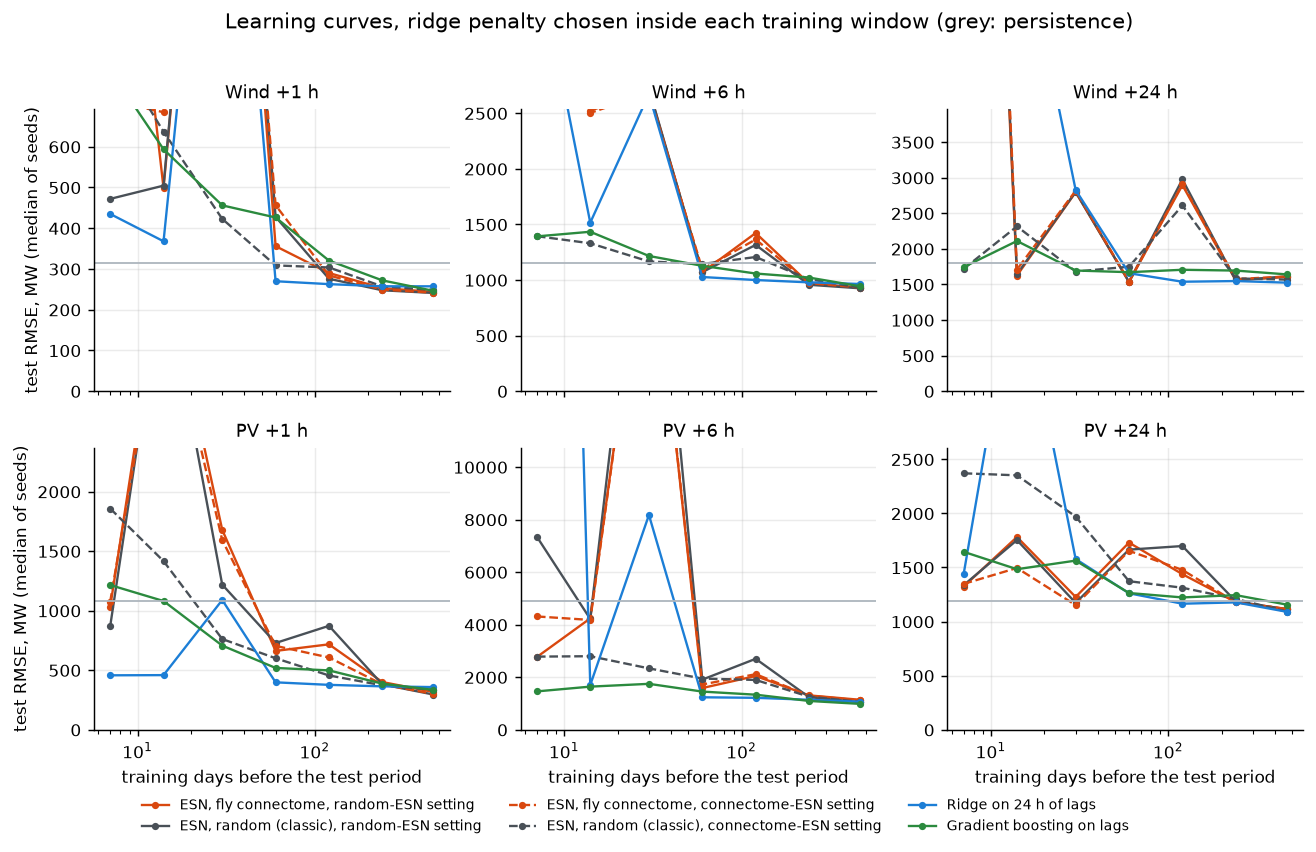
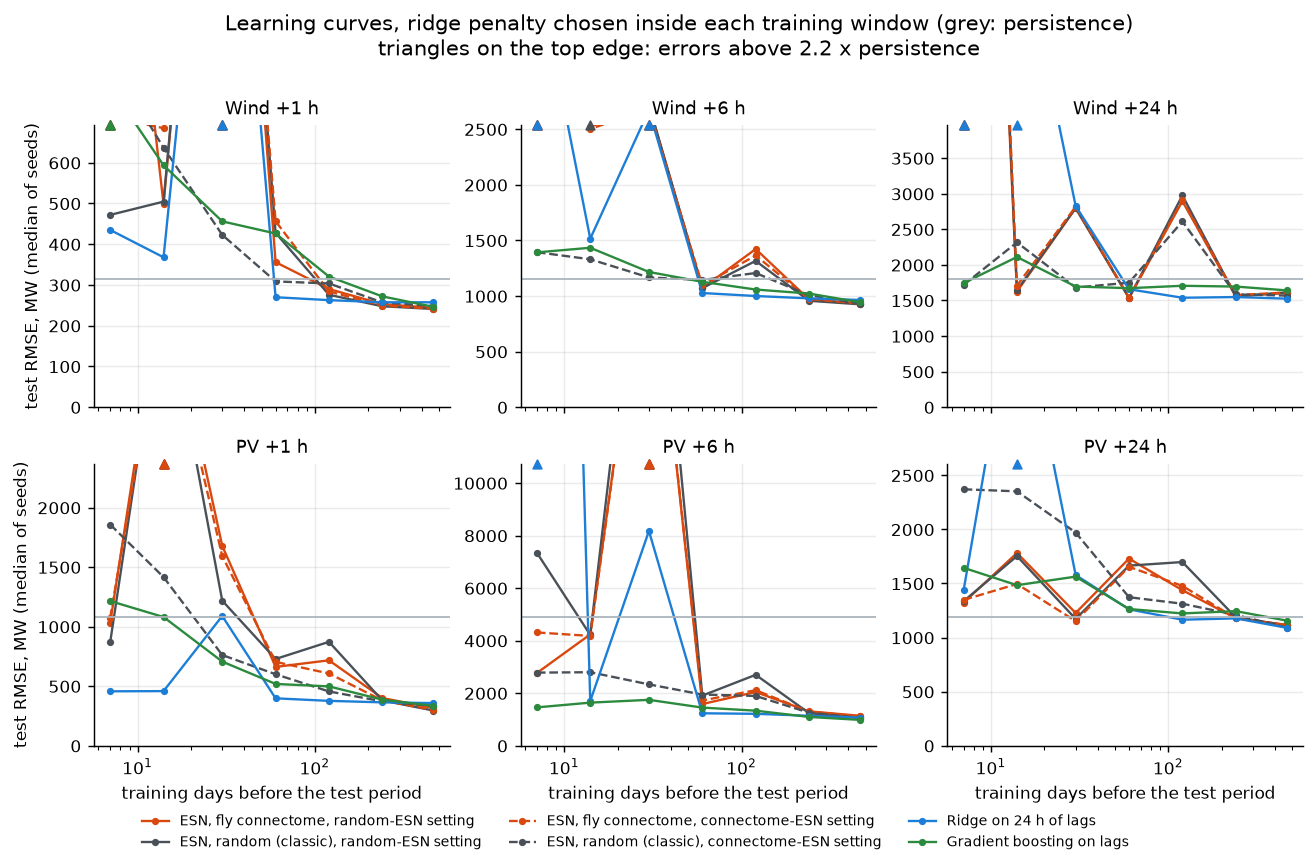
README charts: reservoir colour scales and legend, clipped learning curves marked
reservoir.png: equal matrix panels, a colour scale under each (per-panel, as before), the neuron legend
below the network. learning_curves.png: errors above the 2.2 x persistence axis limit are marked on the
top edge instead of leaving the axis without a trace. Redrawn from connectome/ and results/.

diff --git a/src/fly_forecast/figures.py b/src/fly_forecast/figures.py
@@ -38,7 +38,7 @@ def _save(fig, path: Path) -> Path:
 
 def fig_reservoir(views: dict, path: Path) -> Path:
     fig = plt.figure(figsize=(12.5, 4.2))
-    gs = fig.add_gridspec(1, 4, width_ratios=[1.15, 1, 1, 1.05])
+    gs = fig.add_gridspec(1, 4, width_ratios=[1.15, 1, 1, 1])
     ax = fig.add_subplot(gs[0])
     pos, nodes, edges = views["pos"], views["nodes"], views["edges"]
     strong = edges.reindex(edges["weight"].abs().sort_values(ascending=False).index[:2500])
@@ -51,16 +51,22 @@ def fig_reservoir(views: dict, path: Path) -> Path:
             continue
         ax.scatter(pos[m, 0], pos[m, 1], s=size[m], c=colour, label=f"{nt} ({m.sum()})", zorder=2, lw=0)
     ax.set_title(f"{len(nodes)} most connected FlyWire neurons", fontsize=10)
-    ax.legend(loc="lower left", fontsize=8, markerscale=1.5)
+    ax.legend(loc="upper center", bbox_to_anchor=(0.5, -0.02), ncol=2, fontsize=8, markerscale=1.5, frameon=False)
     (x0, x1), (y0, y1) = view_limits(pos)
     ax.set_xlim(x0, x1), ax.set_ylim(y0, y1)
     ax.set_xticks([]), ax.set_yticks([]), ax.grid(False)
     for k, (v, title) in enumerate([("connectome", "connectome |W|"), ("degree_preserving", "degree-preserving"),
                                     ("random", "random (same density)")]):
         ax = fig.add_subplot(gs[k + 1])
-        ax.imshow(block_image(views["mats"][v], views["order"]), cmap="magma_r", interpolation="nearest")
+        im = ax.imshow(block_image(views["mats"][v], views["order"]), cmap="magma_r", interpolation="nearest")
         ax.set_title(title + "\n(rows: post, columns: pre)", fontsize=9.5)
         ax.set_xticks([]), ax.set_yticks([]), ax.grid(False)
+        # each panel keeps its own colour scale (the random matrix reaches about twice the connectome's values)
+        cb = fig.colorbar(im, ax=ax, orientation="horizontal", fraction=0.05, pad=0.03)
+        cb.ax.tick_params(labelsize=7.5)
+        cb.outline.set_visible(False)
+        if k == 0:
+            cb.set_label("log10(1 + summed |W| / smallest block)", fontsize=8)
     fig.suptitle("Reservoir matrices, neurons ordered by main neuropil", y=1.02)
     return _save(fig, path)
 
@@ -182,24 +188,28 @@ def fig_curves(res: dict, path: Path) -> Path:
              ("esn_random", "connectome", "--"), ("ridge_lags", "", "-"), ("gbm_lags", "", "-")]
     fig, axes = plt.subplots(2, 3, figsize=(12, 6.2), sharex=True)
     for ax, col in zip(axes.ravel(), COLS):
+        ref = res["base"].query("model == 'persistence'")
+        s, h = col.split("_h")
+        r0 = ref[(ref["target"] == s) & (ref["h"] == int(h))]["rmse"].iloc[0]
+        top = 2.2 * r0
         for m, setting, ls in lines:
             t = c[(c["model"] == m) & (c["column"] == col) & (c["setting"] == setting)]
             t = t.assign(x=t["days"].map(xs_map)).sort_values("x")
             lab = LABEL[m] + (f", {setting}-ESN setting" if setting else "")
             ax.plot(t["x"], t["test_median"], ls, marker="o", ms=3, color=COLOUR[m], label=lab, lw=1.3)
-        ref = res["base"].query("model == 'persistence'")
-        s, h = col.split("_h")
-        r0 = ref[(ref["target"] == s) & (ref["h"] == int(h))]["rmse"].iloc[0]
+            over = t[t["test_median"] > top]  # off the axis: marked on its top edge
+            ax.scatter(over["x"], [top] * len(over), marker="^", s=22, color=COLOUR[m], clip_on=False, zorder=3)
         ax.axhline(r0, color="#adb5bd", lw=1)
         ax.set_xscale("log")
         ax.set_title(col_label(col), fontsize=10)
-        ax.set_ylim(0, 2.2 * r0)
+        ax.set_ylim(0, top)
     for ax in axes[1]:
         ax.set_xlabel("training days before the test period")
     for ax in axes[:, 0]:
         ax.set_ylabel("test RMSE, MW (median of seeds)")
     axes[1, 2].legend(fontsize=7.5, ncol=3, loc="upper left", bbox_to_anchor=(-2.3, -0.2))
-    fig.suptitle("Learning curves, ridge penalty chosen inside each training window (grey: persistence)", y=1.0)
+    fig.suptitle("Learning curves, ridge penalty chosen inside each training window (grey: persistence)\n"
+                 "triangles on the top edge: errors above 2.2 x persistence", y=1.02)
     return _save(fig, path)
 
 
